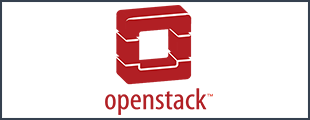
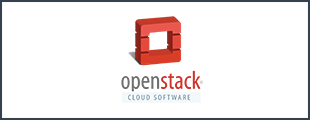
openstack com partner

Changed region(s): [[0.3194, 0.025, 0.6968, 0.975]]

diff --git a/source/partners.html b/source/partners.html
@@ -193,11 +193,10 @@ category: NFV
                      <a href="http://www.open-o.org" target="_blank" class="recipeName">
                     <img src="img/partners/openo-com-partner.png" onmouseover="this.src='img/partners/openo-com-partner-out.png'" onmouseout="this.src='img/partners/openo-com-partner.png'" class="Open-O" alt="cloudify open-o sponsor" width="175"/>
                     </a></div></div>
-                    
                     <div class="span2">
                     <div class="aligncenter">
-                    <a href="http://www.opnfv.org" target="_blank" class="recipeName">
-                    <img src="img/partners/opnfv-com-partner.png" onmouseover="this.src='img/partners/opnfv-com-partner-out.png'" onmouseout="this.src='img/partners/opnfv-com-partner.png'" class="OPNFV Sponsor" alt="OPNFV Sponsor" width="175"/>
+                    <a href="http://www.openstack.org" target="_blank" class="recipeName">
+                    <img src="img/partners/openstack-com-partner.png" onmouseover="this.src='img/partners/openstack-com-partner-out.png'" onmouseout="this.src='img/partners/openstack-com-partner.png'" class="OPNFV Sponsor" alt="OpenStack Event Sponsor" width="175"/>
                     </a></div></div>
                                    
                        <div class="span1"></div>
@@ -211,11 +210,10 @@ category: NFV
                     <img src="img/partners/podcast-com-partner.png" onmouseover="this.src='img/partners/podcast-com-partner-out.png'" onmouseout="this.src='img/partners/podcast-com-partner.png'" class="OpenStack Podcast" alt="OpenStack Podcast" width="175"/>
                     </a>
 
-
-                    <!--&nbsp;&nbsp;&nbsp;
-                    <a href="#" target="_blank" class="recipeName">
-                    <img src="img/partners/partner-Logo.png" onmouseover="this.src='img/partners/partner-Logo-out.png'" onmouseout="this.src='img/partners/partner-Logo.png'" class="client-logo" alt="cloudify for vmware nfv" width="175"/>
-                    </a> -->
+                    &nbsp;&nbsp;&nbsp;
+                    <a href="http://www.opnfv.org" target="_blank" class="recipeName">
+                    <img src="img/partners/opnfv-com-partner.png" onmouseover="this.src='img/partners/opnfv-com-partner-out.png'" onmouseout="this.src='img/partners/opnfv-com-partner.png'" class="OPNFV Sponsor" alt="OPNFV Sponsor" width="175"/>
+                    </a> 
                     </div>
                     </div>
                     </div>
